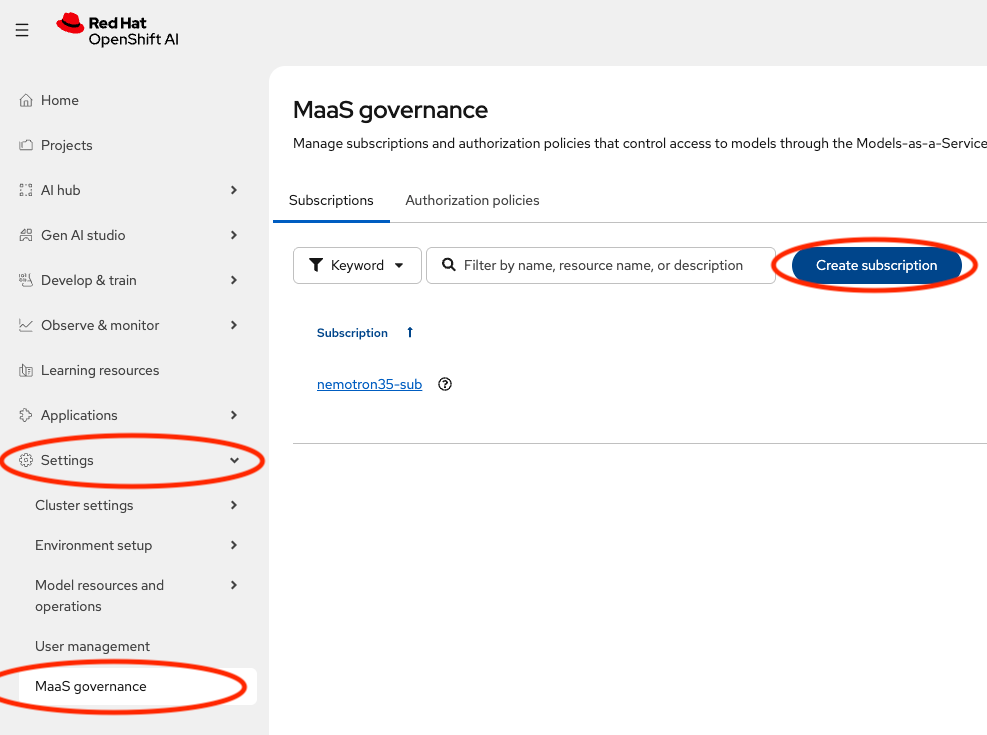
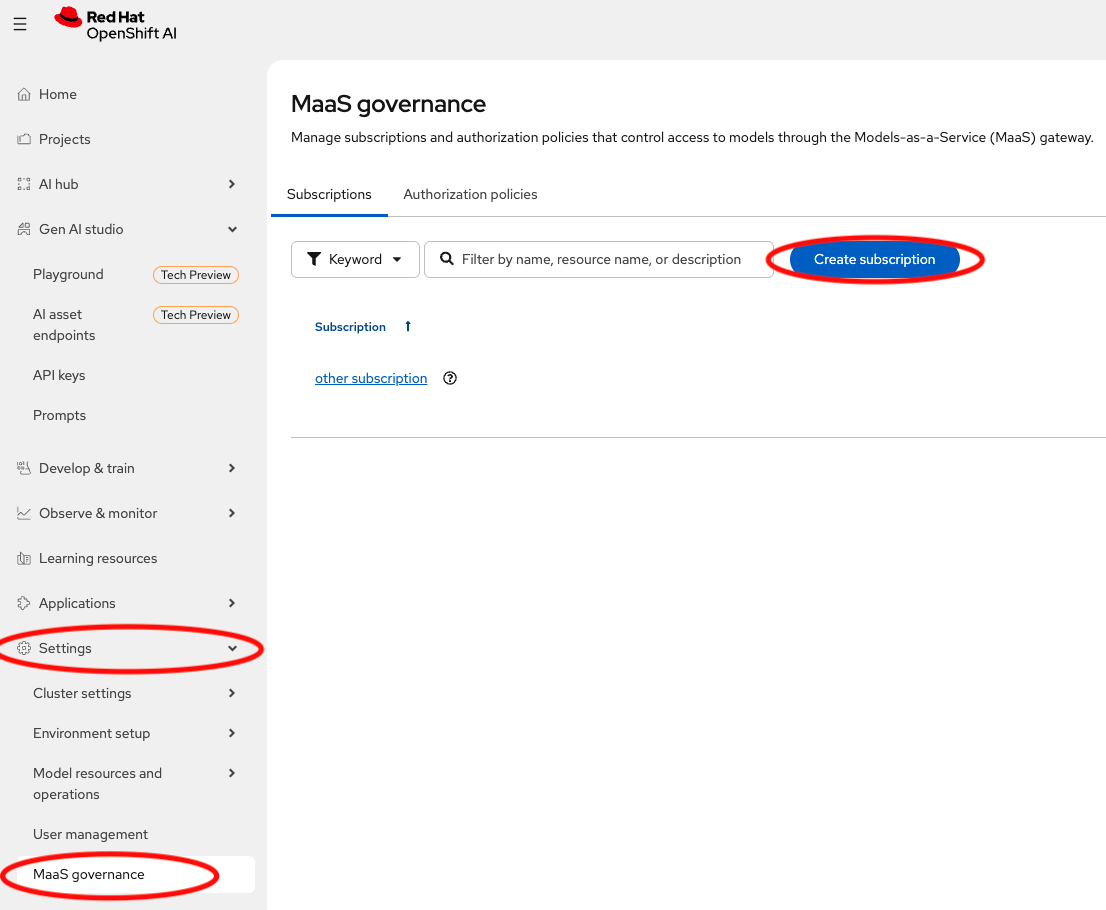
Add in automated deployment; Change guide to use Nemotron-3.5-super-vl

diff --git a/README.md b/README.md
@@ -1,8 +1,10 @@
 # IBM Bob on RHOAI
 
-End-to-end guide for deploying [IBM Bob](https://bob.ibm.com/docs/ide/enterprise/on-premises/installation/install) on OpenShift with a self-hosted Nemotron model served via RHOAI MaaS.
+End-to-end guide for deploying [IBM Bob](https://bob.ibm.com/docs/ide/enterprise/on-premises/installation/install) on OpenShift with a self-hosted Nemotron model served via RHOAI Models-as-a-Service (MaaS).
 
-## Environment
+## Prerequisites
+
+Below are the platform components that were used to develop this guide. 
 
 | Component | Version |
 |---|---|
@@ -11,23 +13,48 @@ End-to-end guide for deploying [IBM Bob](https://bob.ibm.com/docs/ide/enterprise
 | Red Hat Connectivity Link | 1.4.3 |
 
 **Storage:** `gp3-csi` (Block RWO), `efs` (FS RWX)  
-**GPU:** 1× NVIDIA L40S 48GB VRAM (`g6e.2xlarge`)
+
+**GPU:** 4× NVIDIA H100 80GB VRAM (for Nemotron 3.5 Super VL 120B BF16)
 
 **Deploying IBM Bob v2.0.0**
 
----
+> Note: The GPU requirement will change depending on the model you choose to back IBM Bob with. The list of supported models can be found in the [IBM Bob documentation](https://bob.ibm.com/docs/ide/enterprise/on-premises/model-gateway/supported-models#air-gapped-models).
 
-## 1. Model Deployment (RHOAI)
+## Automated Model Deployment
 
-> MaaS was configured on the cluster using this [automated setup script](https://rh-aiservices-bu.github.io/rhoai-maas-guide/modules/main/quick-start.html).
+A `kustomization.yaml` has been provided for you in `./deploy-model`, that will automatically deploy a single replica of the [Nemotron 3.5 Super VL 120B BF16](https://huggingface.co/nvidia/NVIDIA-Nemotron-3.5-Super-VL-120B-A12B-BF16) model. It is presumed you are using 4xH100 GPU nodes. Manifests may need to be edited if this is not the case.
 
-**Model:** [NVIDIA-Nemotron-3.5-Lightning-30B-A3B-FP8](https://huggingface.co/RedHatAI/NVIDIA-Nemotron-3.5-Lightning-30B-A3B-FP8)
+```bash
+$ cp deploy-model/hf-token.env.example deploy-model/hf-token.env
 
-- Chosen as the [closest-to-supported](https://bob.ibm.com/docs/ide/enterprise/on-premises/model-gateway/supported-models#air-gapped-models) reasonable model deployable in this environment.
-- FP8 quantisation fits on a single L40S GPU.
-- Deployed with llm-d, as required by RHOAI MaaS.
+# Edit below to speed up the model weight download from HuggingFace.
+$ vi deploy-model/hf-token.env
 
-### Steps
+$ oc apply -k deploy-model/
+
+namespace/bob created
+secret/hf-token created
+persistentvolumeclaim/nemotron-super-vl created
+job.batch/nemotron-super-vl-loader created
+llminferenceservice.serving.kserve.io/nemotron-super-vl created
+```
+
+This will do the following:
+
+* Download the weights into a PVC called "nemotron-super-vl". This job can take ~15 minutes, depending on network speed.
+* Deploy an `LLMInferenceService` object. This will deploy the model and make it available as an AI Asset Endpoint / part of RHOAI's MaaS.
+
+Once this is done, you can continue from [MaaS Configuration](#2-maas-configuration)
+
+## Manual Model Deployment
+
+> Note: MaaS was configured on the cluster using this [automated setup script](https://rh-aiservices-bu.github.io/rhoai-maas-guide/modules/main/quick-start.html).
+
+The model deployed for this guide is [NVIDIA-Nemotron-3.5-Super-VL-120B-A12B-BF16](https://huggingface.co/nvidia/NVIDIA-Nemotron-3.5-Super-VL-120B-A12B-BF16). This is one of the models supported by IBM Bob, though [others are available](https://bob.ibm.com/docs/ide/enterprise/on-premises/model-gateway/supported-models#air-gapped-models). 
+
+This model will be deployed on Red Hat OpenShift AI >=V3.5, with llm-d, as this is what's required by RHOAI Models-as-a-Service (MaaS).
+
+#### Steps
 
 **1. Create and label the `bob` namespace**
 
@@ -45,10 +72,10 @@ Pre-loading reduces model startup time. See [`scripts/load-model-to-pvc.sh`](scr
 ```sh
 ./scripts/load-model-to-pvc.sh \
   --namespace bob \
-  -m hf://RedHatAI/NVIDIA-Nemotron-3.5-Lightning-30B-A3B-FP8 \
-  -s 50Gi \
+  -m hf://nvidia/NVIDIA-Nemotron-3.5-Super-VL-120B-A12B-BF16 \
+  -s 200Gi \
   -t ${HF_TOKEN} \
-  -p nemotron-3.5-lightning \
+  -p nemotron-35-super-vl \
   -g -N ${GPU_WORKER_NODE}
 ```
 
@@ -71,6 +98,7 @@ Ensure that **"Add as AI asset endpoint"** and **"Publish as MaaS"** are checked
 Also, add the following vLLM runtime arguments during deployment:
 
 ```
+--tensor-parallel-size=4
 --reasoning-parser=nemotron_v3
 --tool-call-parser=qwen3_coder
 --enable-auto-tool-choice
@@ -85,15 +113,15 @@ Click **Next** → **Deploy Model**.
 ```sh
 oc get pods -n bob
 
-NAME                                                          READY   STATUS    RESTARTS   AGE
-llmisvc-nemotron35-kserve-849bd57cd9-qsg94                    1/1     Running   0          5h25m
-llmisvc-nemotron35-kserve-router-scheduler-595c8d996b-8tzx7   1/1     Running   0          29h
+NAME                                                         READY   STATUS      RESTARTS   AGE
+nemotron-super-vl-kserve-549fb6664f-99df8                    1/1     Running     0          24m
+nemotron-super-vl-kserve-router-scheduler-85c9cb48bb-fnsvf   1/1     Running     0          24m
 ```
 
 > **Tainted GPU nodes:** Your pods may fail to schedule if they're tainted. In that case, add a toleration to the `LLMInferenceService` CR:
 >
 > ```sh
-> oc edit llmisvc nemotron-35-lightning -n bob
+> oc edit llmisvc nemotron-super-vl -n bob
 > ```
 >
 > ```yaml
@@ -102,12 +130,12 @@ llmisvc-nemotron35-kserve-router-scheduler-595c8d996b-8tzx7   1/1     Running   
 >     tolerations:
 >     - effect: NoSchedule
 >       key: nvidia.com/gpu
->       value: NVIDIA-L40S-PRIVAYE
+>       value: NVIDIA-H100-PRIVAYE
 > ```
 
 ---
 
-## 2. MaaS Configuration
+### 2. MaaS Configuration
 
 With **"Add as AI Asset Endpoint"** and **"Publish to MaaS"** checked, the model will then appear in the AI asset endpoints page.
 
@@ -119,7 +147,7 @@ Go to **Settings > MaaS Governance > Subscriptions** → **Create Subscription**
 
 ![Create subscription](images/image06.png)
 
-- Name the subscription (e.g. `nemotron-35-sub`)
+- Name the subscription (e.g. `nemotron-super-vl-sub`)
 - Set a priority (irrelevant if this is your only subscription)
 - In the **Groups** field, type `system:authenticated` (won't appear in the dropdown — this grants access to any OpenShift-authenticated user)
 
@@ -154,7 +182,7 @@ Select the subscription you just created. Set an expiry (maximum 90 days).
 
 ![API Key created](images/image14.png)
 
-### Verification
+#### Verification
 
 Navigate to **Gen AI Studio > AI asset endpoints**. You'll see two entries for your model.
 
@@ -170,13 +198,13 @@ Test inference using [`scripts/test-maas-endpoint.sh`](scripts/test-maas-endpoin
 
 ---
 
-## 3. IBM Bob Deployment
+### 3. IBM Bob Deployment
 
 > **Docs:** [IBM Bob — Installation](https://bob.ibm.com/docs/ide/enterprise/on-premises/installation/install)
 
 > **Note:** You will need an entitlement key for access to IBM Container Registry images.
 
-### Steps
+#### Steps
 
 **1. Download and extract the release bundle**
 
@@ -220,13 +248,13 @@ bob-cr   True    Last reconciliation succeeded   25h
 
 ---
 
-## 4. RHBK Configuration
+### 4. RHBK Configuration
 
 IBM Bob ships with Red Hat Build of Keycloak (RHBK) for authentication, including pre-made groups and an admin user.
 
 > **Docs:** [IBM Bob — User Management](https://bob.ibm.com/docs/ide/enterprise/on-premises/user-management#managing-direct-keycloak-users)
 
-### Steps
+#### Steps
 
 **1. Find the Keycloak route**
 
@@ -252,7 +280,7 @@ Note down the email address. Click the user, go to **Credentials** → **Reset P
 
 ![Reset password](images/image19.png)
 
-### Verify
+#### Verify
 
 Retrieve the IBM Bob UI route — use the one whose hostname does **not** start with `api.bob`:
 
@@ -271,7 +299,7 @@ Log in with the Keycloak email and password.
 
 ---
 
-## 5. Model Configuration
+### 5. Model Configuration
 
 > **Docs:** [IBM Bob — Model Gateway Configuration](https://bob.ibm.com/docs/ide/enterprise/on-premises/model-gateway/configuration)
 
@@ -306,7 +334,7 @@ Apply the configuration:
 
 ---
 
-## 6. Consuming IBM Bob
+### 6. Consuming IBM Bob
 
 > **Docs:** [IBM Bob — Accessing On-Premises](https://bob.ibm.com/docs/ide/enterprise/on-premises/accessing)
 
@@ -340,7 +368,7 @@ Finally you'll have a Bob Shell connected to your RHOAI hosted model! 🎉
 
 ![Bob Shell running](images/image24.png)
 
-### Bob IDE
+#### Bob IDE
 
 > The IDE picks up settings populated by a successful Bob Shell login, so complete the Shell setup first.
 
